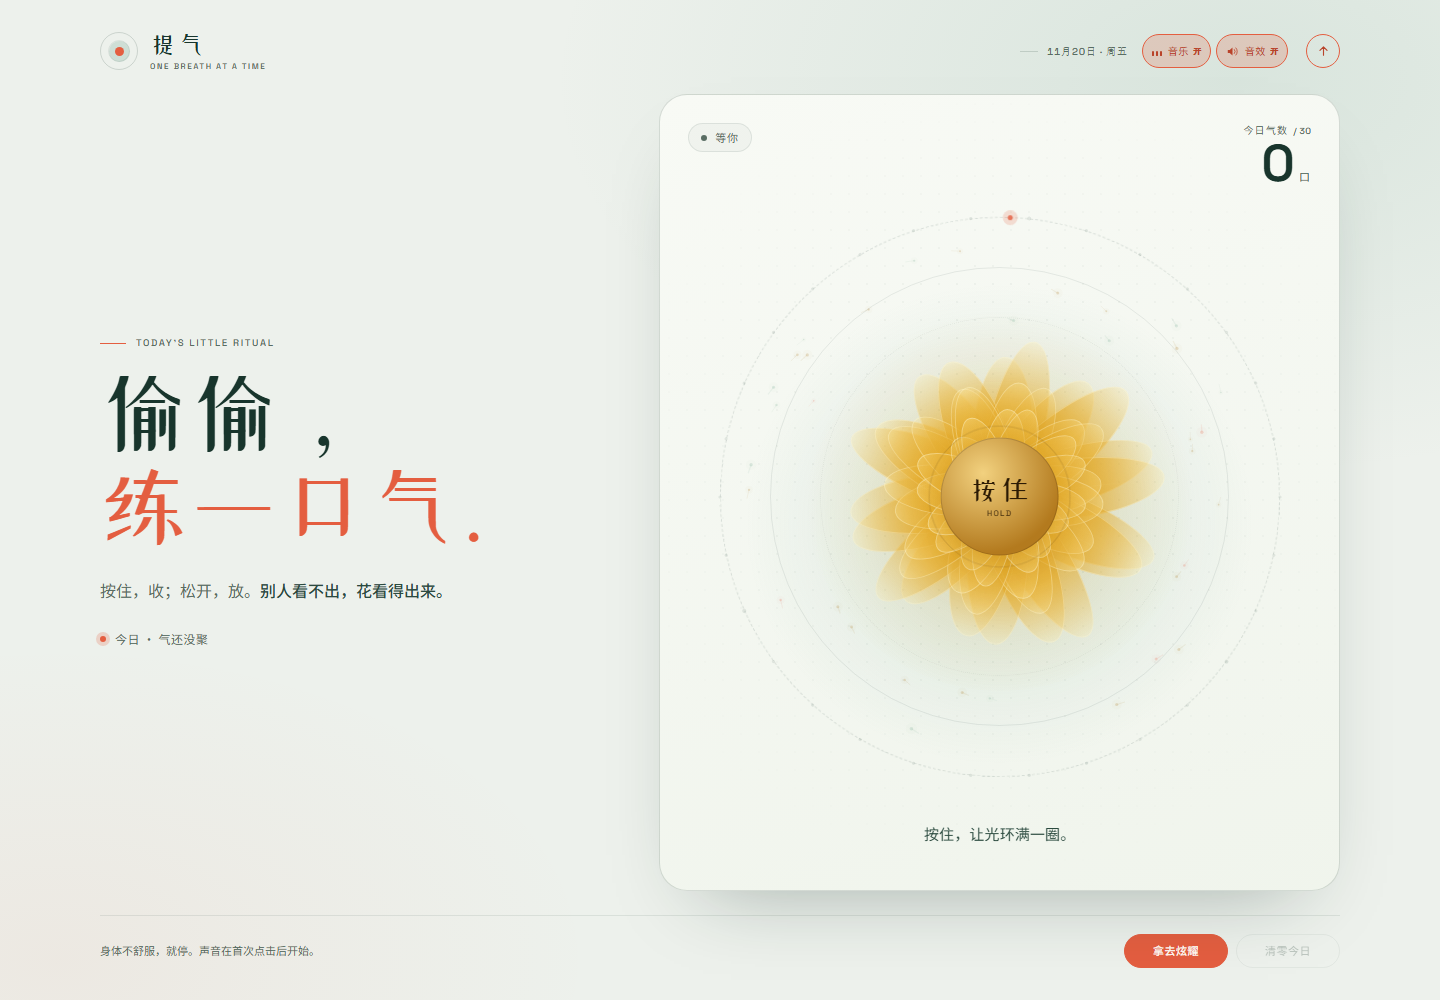
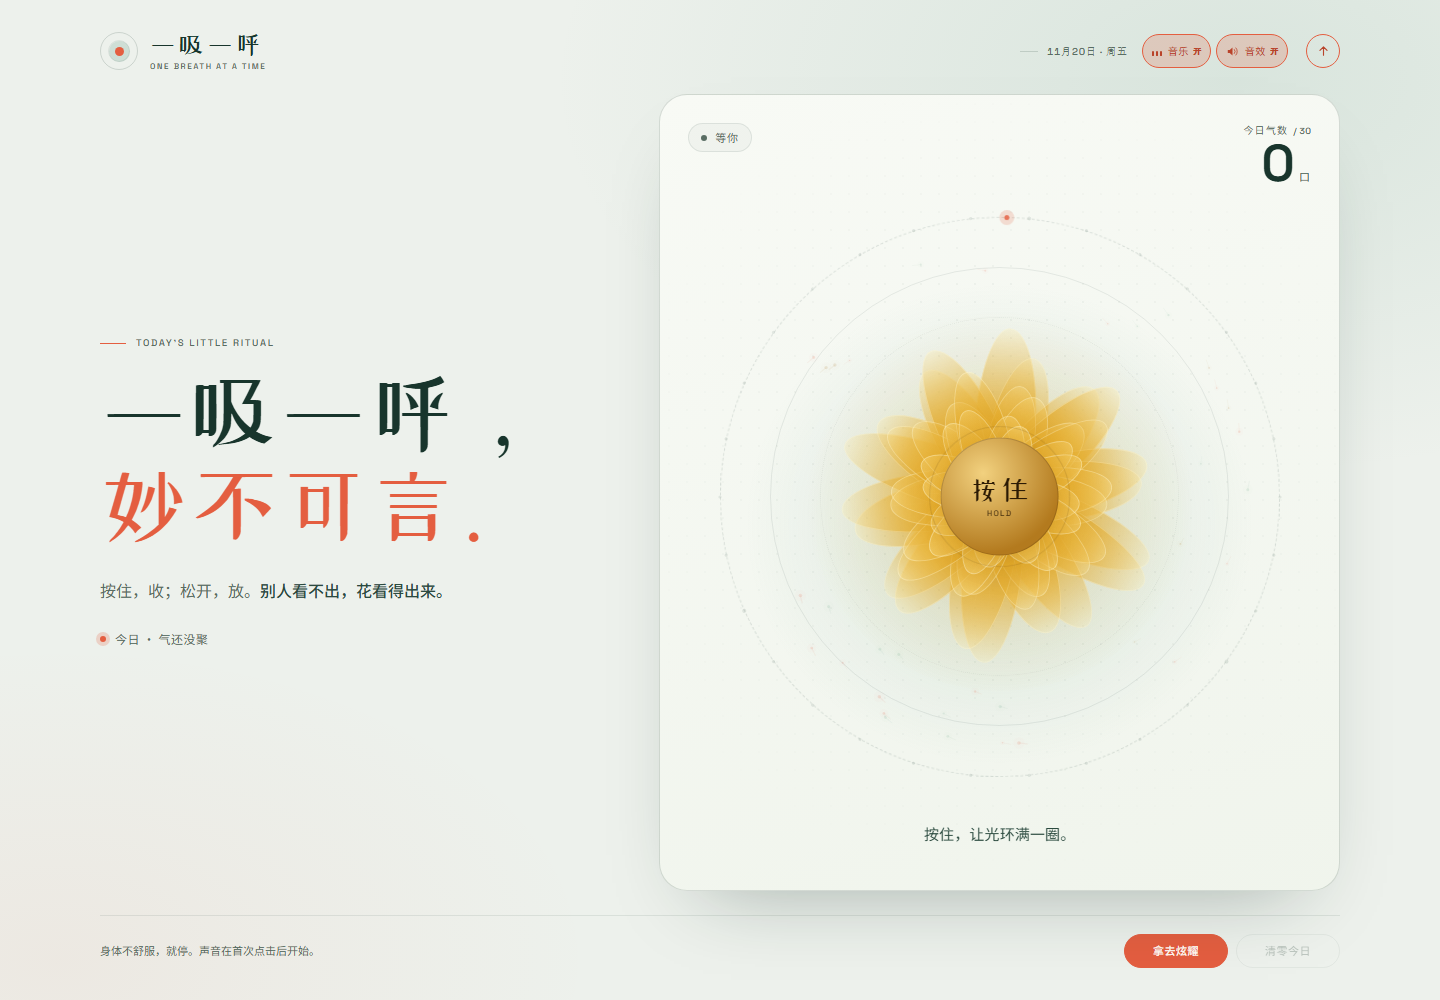
Rename to Yixi Yihu and restore motion on reduced-motion desktops

diff --git a/index.html b/index.html
@@ -1,8 +1,8 @@
 <meta charset="utf-8">
 <meta name="viewport" content="width=device-width, initial-scale=1, viewport-fit=cover">
-<title>提气</title>
-<meta name="description" content="提气：按住，等光环满一圈，再松开。一个关于收与放的三十口小游戏。">
-<meta property="og:title" content="提气 · 偷偷练一口气">
+<title>一吸一呼</title>
+<meta name="description" content="一吸一呼，妙不可言。按住收，松开放，偷偷练一口气的三十口小游戏。">
+<meta property="og:title" content="一吸一呼 · 妙不可言">
 <meta property="og:description" content="按住收，松开放。别人看不出，花看得出来。来偷偷练几口气。">
 <meta property="og:type" content="website">
 <meta property="og:url" content="https://humanv.github.io/kegel-exercise/">
@@ -1225,12 +1225,12 @@
     }
 
     .brand-name {
-      font-size: 22px;
+      font-size: 20px;
+      letter-spacing: 0.06em;
     }
 
     .brand-sub {
-      font-size: 7.5px;
-      letter-spacing: 0.16em;
+      display: none;
     }
 
     .top-meta {
@@ -1323,7 +1323,11 @@
       gap: 9px;
     }
 
-    .brand-sub {
+    .brand-name {
+      font-size: 18px;
+    }
+
+    .top-actions .share-quick {
       display: none;
     }
 
@@ -1341,9 +1345,9 @@
   }
 
   @media (prefers-reduced-motion: reduce) {
-    *,
-    *::before,
-    *::after {
+    body:not(.motion-on) *,
+    body:not(.motion-on) *::before,
+    body:not(.motion-on) *::after {
       animation-duration: 0.01ms !important;
       animation-iteration-count: 1 !important;
       transition-duration: 0.01ms !important;
@@ -2374,6 +2378,36 @@
     display: none !important;
   }
 
+  .motion-note {
+    display: flex;
+    align-items: center;
+    flex-wrap: wrap;
+    gap: 6px 10px;
+    padding: 8px 10px;
+    border: 1px solid var(--gold);
+    border-radius: 13px;
+    background: var(--gold-soft);
+    color: var(--ink-soft);
+    font-size: 11px;
+    line-height: 1.5;
+  }
+
+  .motion-note button {
+    appearance: none;
+    -webkit-appearance: none;
+    padding: 0;
+    border: 0;
+    background: transparent;
+    color: var(--gold-strong);
+    font-family: var(--font-body);
+    font-size: 11px;
+    font-weight: 500;
+    line-height: inherit;
+    text-decoration: underline;
+    text-underline-offset: 3px;
+    cursor: pointer;
+  }
+
   .challenge-bar {
     min-width: 0;
     display: flex;
@@ -3018,7 +3052,7 @@
     <div class="brand">
       <span class="brand-mark" aria-hidden="true"></span>
       <div class="brand-copy">
-        <p class="brand-name">提气</p>
+        <p class="brand-name">一吸一呼</p>
         <p class="brand-sub">ONE BREATH AT A TIME</p>
       </div>
     </div>
@@ -3051,8 +3085,8 @@
     <section class="intro" aria-labelledby="pageTitle">
       <p class="eyebrow">TODAY'S LITTLE RITUAL</p>
       <h1 id="pageTitle">
-        <span class="h1-part">偷偷，</span>
-        <span class="h1-part h1-em">练一口气。</span>
+        <span class="h1-part">一吸一呼，</span>
+        <span class="h1-part h1-em">妙不可言。</span>
       </h1>
       <p class="lead">
         按住，收；松开，放。<strong>别人看不出，花看得出来。</strong>
@@ -3076,6 +3110,11 @@
             <span class="score-unit">口</span>
           </span>
         </div>
+      </div>
+
+      <div class="motion-note" id="motionNote" hidden>
+        <span>系统开启了“减少动态效果”，动画目前是暂停的。</span>
+        <button id="motionEnable" type="button">仍然播放</button>
       </div>
 
       <div class="challenge-bar" id="challengeBar" hidden>
@@ -3173,7 +3212,7 @@
     <div class="share-poster" id="sharePoster">
       <span class="poster-stamp" aria-hidden="true">密</span>
       <div class="poster-top">
-        <span class="poster-brand">提气</span>
+        <span class="poster-brand">一吸一呼</span>
         <span id="shareDate">11月20日</span>
       </div>
       <div class="poster-flower-wrap">
@@ -3245,6 +3284,8 @@
     rewardSeal: document.getElementById("rewardSeal"),
     rewardTitle: document.getElementById("rewardTitle"),
     rewardCopy: document.getElementById("rewardCopy"),
+    motionNote: document.getElementById("motionNote"),
+    motionEnable: document.getElementById("motionEnable"),
     challengeBar: document.getElementById("challengeBar"),
     challengeScore: document.getElementById("challengeScore"),
     challengeState: document.getElementById("challengeState"),
@@ -3268,6 +3309,11 @@
   };
 
   const motionQuery = window.matchMedia("(prefers-reduced-motion: reduce)");
+  let motionOverride = false;
+
+  function motionReduced() {
+    return motionQuery.matches && !motionOverride;
+  }
 
   let dailyKey = "";
   let count = 0;
@@ -3904,7 +3950,7 @@
 
     if (
       animate &&
-      !motionQuery.matches &&
+      !motionReduced() &&
       typeof el.feedback.animate === "function"
     ) {
       el.feedback.animate(
@@ -3932,7 +3978,7 @@
     squeezeFrame = 0;
     squeezeBase = 0;
 
-    if (motionQuery.matches) {
+    if (motionReduced()) {
       setSqueeze(0);
       return;
     }
@@ -3969,7 +4015,9 @@
     const context = canvas.getContext("2d");
     if (!context) return { burst() {}, reset() {} };
 
-    if (motionQuery.matches) {
+    canvas.hidden = false;
+
+    if (motionReduced()) {
       canvas.hidden = true;
       return { burst() {}, reset() {} };
     }
@@ -4289,9 +4337,9 @@
     const flavor = shareFlavor();
     const link = buildShareLink();
     if (count <= 0) {
-      return `我在「提气」偷偷练一口气，你也来（今日称号：${flavor.rank}）：${link}`;
+      return `我在「一吸一呼」偷偷练一口气，你也来（今日称号：${flavor.rank}）：${link}`;
     }
-    return `我在「提气」偷偷练了 ${count} 口气（今日称号：${flavor.rank}），来超过我：${link}`;
+    return `我在「一吸一呼」偷偷练了 ${count} 口气（今日称号：${flavor.rank}），来超过我：${link}`;
   }
 
   function ensurePosterDots() {
@@ -4402,7 +4450,7 @@
     if (typeof navigator.share !== "function") return;
     try {
       await navigator.share({
-        title: "提气 · 偷偷练一口气",
+        title: "一吸一呼 · 妙不可言",
         text: buildShareMessage()
       });
       el.shareStatus.textContent = "发出去了。继续保持低调。";
@@ -4413,7 +4461,7 @@
   }
 
   function showPlusOne() {
-    if (motionQuery.matches) return;
+    if (motionReduced()) return;
 
     const plus = document.createElement("span");
     plus.className = "plus-one";
@@ -4485,7 +4533,7 @@
   }
 
   function triggerShake(amplitude = 2) {
-    if (!el.arena || motionQuery.matches) return;
+    if (!el.arena || motionReduced()) return;
 
     window.clearTimeout(shakeTimer);
     el.arena.style.setProperty("--shake-amp", `${amplitude}px`);
@@ -4533,7 +4581,7 @@
     updateChallengeUI();
     syncResetButton();
 
-    if (!animate || motionQuery.matches) return;
+    if (!animate || motionReduced()) return;
 
     el.scoreBox.classList.remove("is-bumped");
     void el.scoreBox.offsetWidth;
@@ -4647,8 +4695,8 @@
 
     window.cancelAnimationFrame(squeezeFrame);
     squeezeFrame = 0;
-    squeezeBase = motionQuery.matches ? 0 : Math.max(0, Math.min(1, squeezeValue));
-    if (motionQuery.matches) setSqueeze(1);
+    squeezeBase = motionReduced() ? 0 : Math.max(0, Math.min(1, squeezeValue));
+    if (motionReduced()) setSqueeze(1);
 
     pressing = true;
     pressSource = source;
@@ -4677,7 +4725,7 @@
 
     const elapsed = Math.max(0, (performance.now() - holdStartedAt) / 1000);
 
-    if (!motionQuery.matches) {
+    if (!motionReduced()) {
       const progress = Math.min(1, elapsed / HOLD_TARGET);
       const eased = 1 - Math.pow(1 - progress, 2.3);
       setSqueeze(squeezeBase + (1 - squeezeBase) * eased);
@@ -4884,7 +4932,7 @@
   }
 
   function emitExhale(strength = 1) {
-    if (motionQuery.matches || !el.waveLayer) return;
+    if (motionReduced() || !el.waveLayer) return;
 
     const waves = strength >= 0.8 ? 2 : 1;
     for (let index = 0; index < waves; index += 1) {
@@ -4901,7 +4949,7 @@
   }
 
   function spawnBurst(celebration) {
-    if (motionQuery.matches) return;
+    if (motionReduced()) return;
 
     const ring = document.createElement("span");
     ring.className = celebration ? "burst-ring is-gold" : "burst-ring";
@@ -5051,6 +5099,14 @@
     document.addEventListener("keydown", unlockSoundFromGesture, { capture: true });
     document.addEventListener("click", unlockSoundFromGesture, { capture: true });
 
+    el.motionEnable.addEventListener("click", () => {
+      motionOverride = true;
+      document.body.classList.add("motion-on");
+      el.motionNote.hidden = true;
+      moteField = createMoteField();
+      el.bloom.focus({ preventScroll: true });
+    });
+
     el.challengeDismiss.addEventListener("click", () => {
       challengeDismissed = true;
       updateChallengeUI();
@@ -5118,6 +5174,10 @@
     sfxEnabled = sound ? readTogglePreference(SFX_KEY) : false;
     if (sound) sound.configure(musicEnabled, sfxEnabled);
     updateSoundUI();
+
+    if (motionQuery.matches) {
+      el.motionNote.hidden = false;
+    }
 
     const hotCount = restoredCount(restored);
     count = hotCount !== null ? hotCount : readStoredCount();

diff --git a/README.md b/README.md
@@ -1,12 +1,12 @@
-# 提气 · 一口气小游戏
+# 一吸一呼
 
-按住，等光环满一圈，再松开。每天三十口，偷偷攒点底气。
+一吸一呼，妙不可言。
 
-一个故意不说明白、但可以拿去挑衅朋友的小游戏。
+按住，等光环满一圈，再松开。每天三十口，偷偷攒点底气。一个故意不说明白、但可以拿去挑衅朋友的小游戏。
 
 [**在线试玩 →**](https://humanv.github.io/kegel-exercise/)
 
-![提气页面预览](preview.png)
+![一吸一呼页面预览](preview.png)
 
 ## 玩法
 
@@ -17,7 +17,8 @@
 - 每完成一口，外圈就点亮一颗小小的星。三十口，连成今天的一整圈。
 - 第 10、20、30 口会出现印章和一句话；底色、光圈和今日状态也会跟着变化。
 - 今日状态会经历：气还没聚 → 有点儿意思了 → 气顺了 → 气势来了 → 圆满了。
-- 支持鼠标、触屏和空格键；手机、深色模式和减少动态效果都做了适配。
+- 支持鼠标、触屏和空格键；手机和深色模式都做了适配。
+- 如果系统开启了“减少动态效果”，页面会显示一条提示；点「仍然播放」可以在本次访问里恢复动效。
 
 ## 拿去炫耀
 
